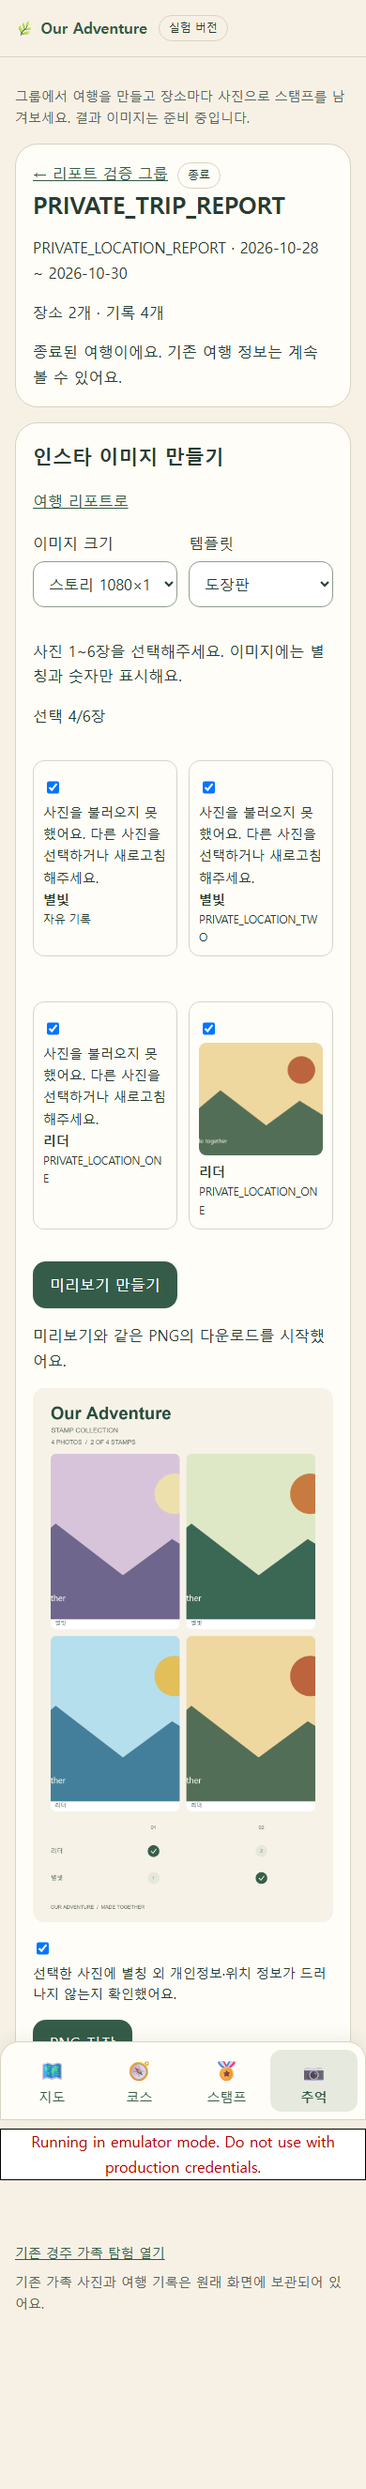
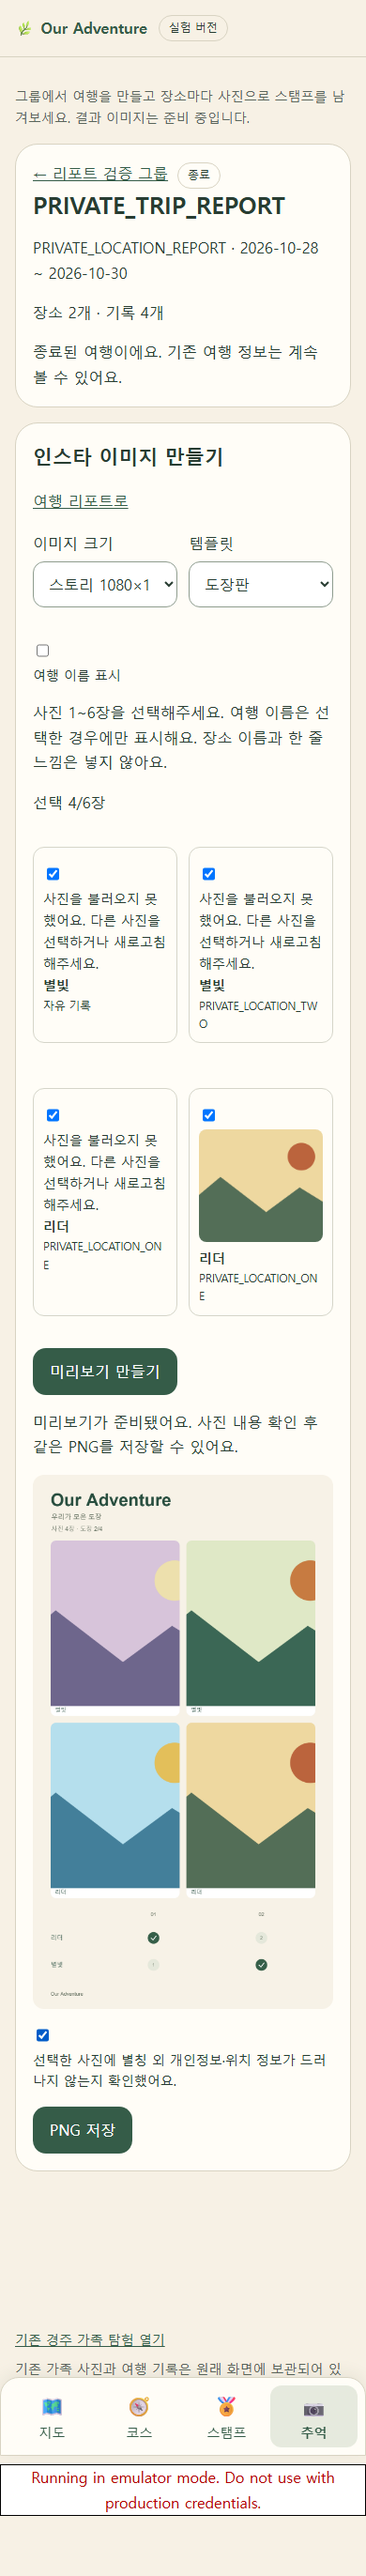
fix: localize report PNG text and add opt-in trip title
Apply PR #18 PM review with Korean captions and a default-off leader
option for the server-sourced trip title. Invalidate previews on changes
and verify title/privacy behavior and preview-download identity.

diff --git a/docs/engineering/examples/trip-report/README.md b/docs/engineering/examples/trip-report/README.md
@@ -8,3 +8,5 @@ Auth/Firestore/Storage demo 에뮬레이터와 Chromium에서 실제 앱의 PNG 
 | 스토리 1080×1920 | [PNG](report-grid-story.png) | [PNG](report-board-story.png) |
 
 실제 이용자 사진이나 운영 데이터가 아니다. 사진 픽셀 자체의 개인정보/위치를 자동 탐지·삭제한 결과라는 뜻은 아니다.
+
+PM 검토 반영: 한국어 문구·별칭만의 사진 캡션·하단 Our Adventure를 적용했다. 위 4종은 여행 이름 기본 꺼짐이다. [여행 이름 표시 예시](report-board-story-title.png)는 리더가 옵션을 켠 경우이며 가상 이름을 사용한다. 이 파일도 실제 다운로드와 미리보기 해시가 일치한다.
